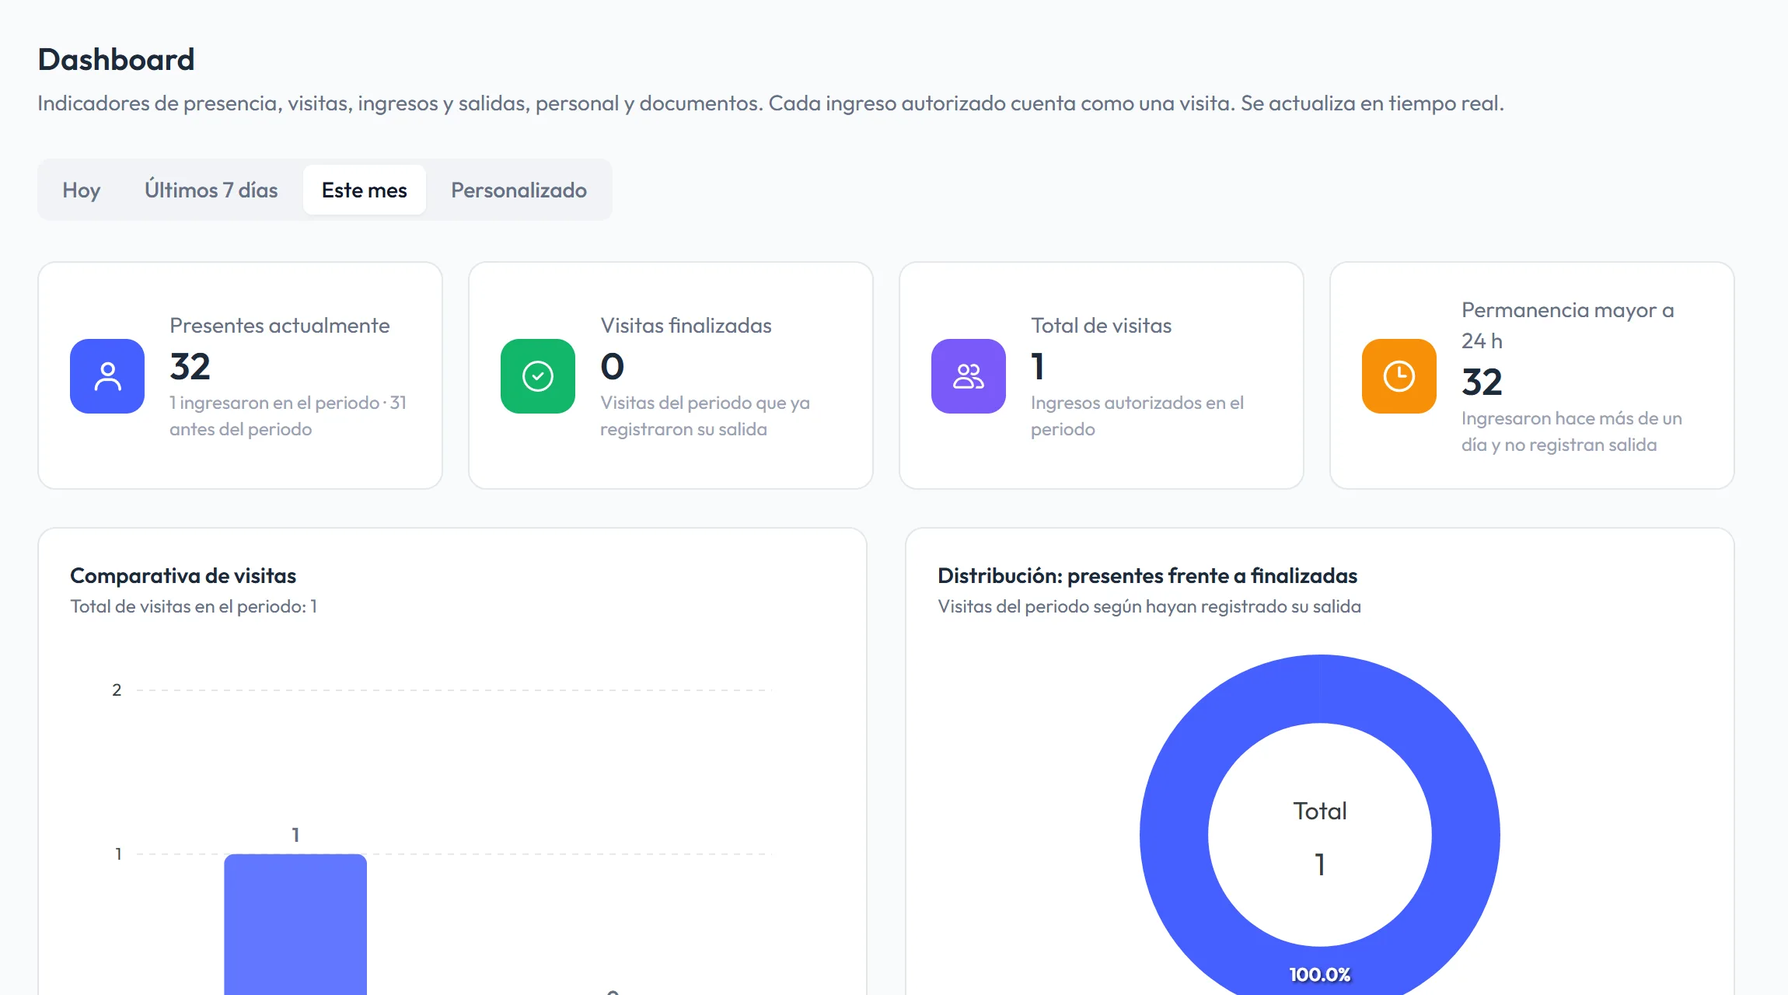
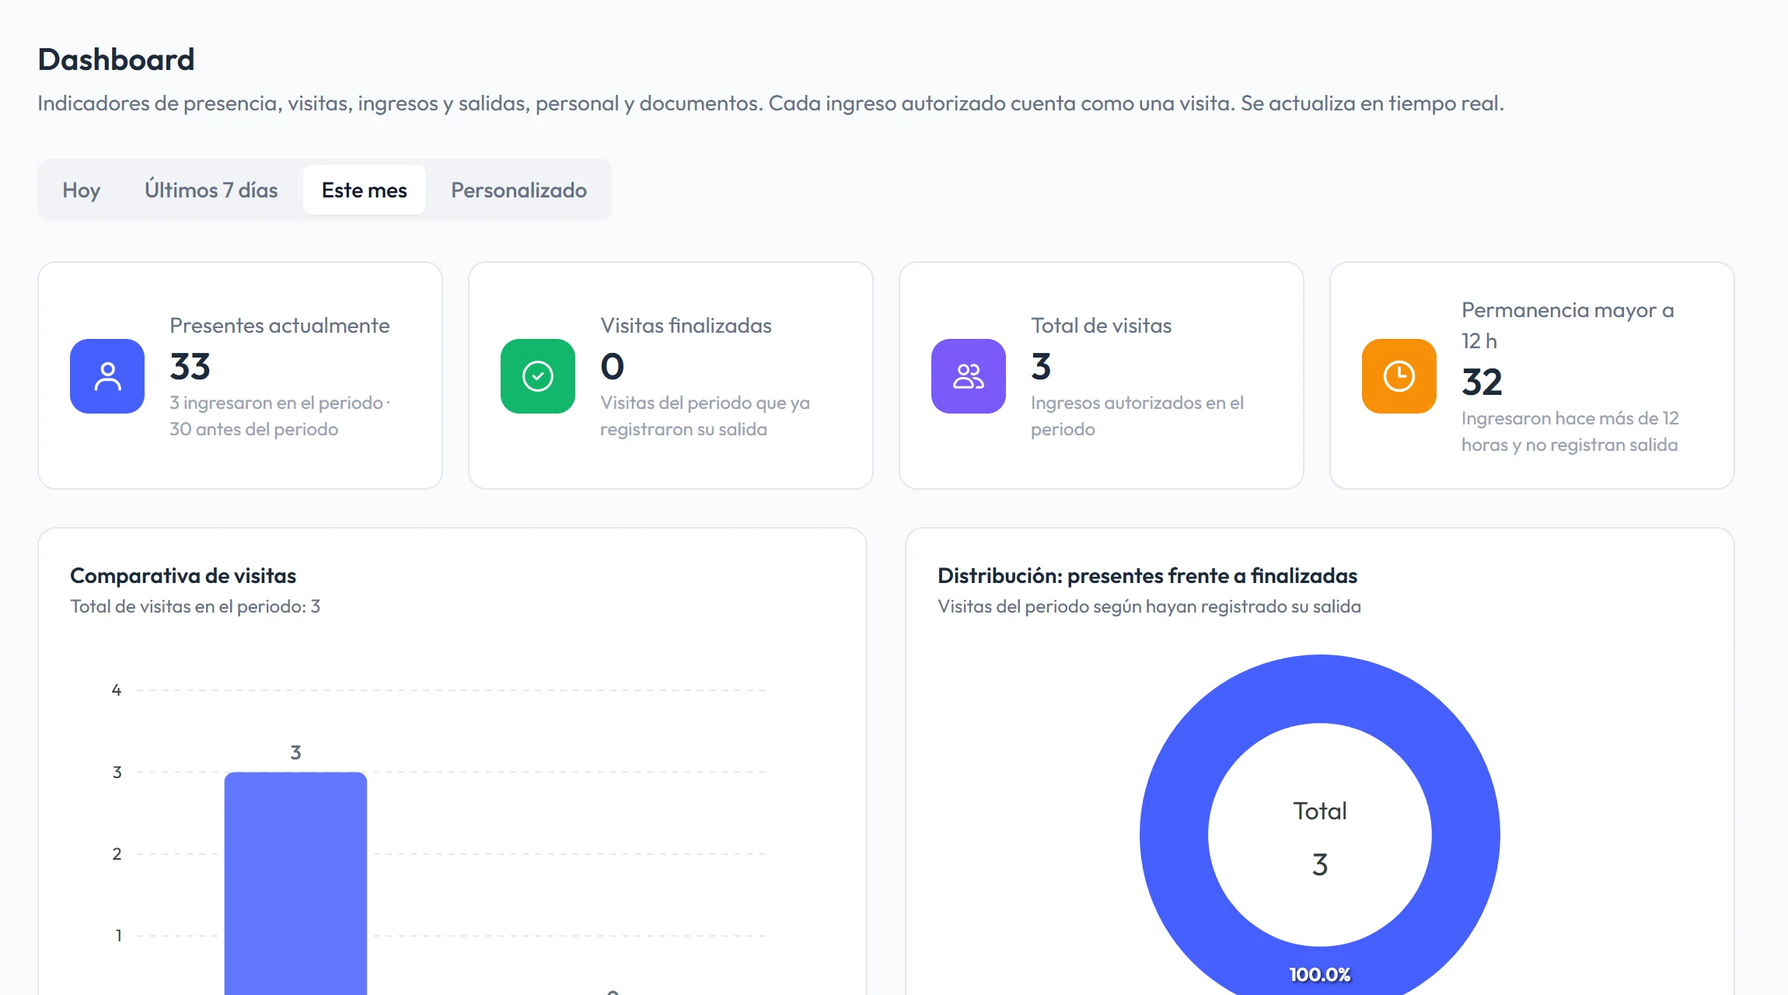
modificacion a 12 horas

diff --git a/mollendo-portal/src/app/(admin)/dashboard/page.tsx b/mollendo-portal/src/app/(admin)/dashboard/page.tsx
@@ -73,7 +73,7 @@ function tiempoDentro(desde: string, ahora: string): string {
 /**
  * Presentes actualmente = todas las personas dentro, sin importar cuándo
  * entraron. El gráfico solo cuenta las visitas del periodo; la diferencia son
- * quienes entraron antes del periodo (p. ej. la permanencia mayor a 24 h).
+ * quienes entraron antes del periodo (p. ej. la permanencia mayor a 12 h).
  */
 function detallePresentes(d: Dashboard | null): string {
   if (!d) return "Personas que ingresaron y aún no registran salida";
@@ -137,7 +137,7 @@ function DashboardContent() {
   }, [cargar]);
 
   // Se actualiza con los ingresos y salidas (tiempo real) y cada minuto, para
-  // que la permanencia mayor a 24 horas avance aunque no haya movimientos. Con
+  // que la permanencia mayor a 12 horas avance aunque no haya movimientos. Con
   // mucho movimiento (cambio de turno) se recarga como máximo cada 10 s: si se
   // recargara con cada persona, los gráficos se redibujarían sin parar.
   const cargarActual = useRef(cargar);
@@ -223,9 +223,10 @@ function DashboardContent() {
           fondoIcono="bg-[#7a5af8]"
         />
         <TarjetaIndicador
-          titulo="Permanencia mayor a 24 h"
-          valor={d?.presencia.masDe24h ?? null}
-          detalle="Ingresaron hace más de un día y no registran salida"
+          // Espacio que no se corta: "12 h" siempre en la misma línea.
+          titulo={"Permanencia mayor a 12 h"}
+          valor={d?.presencia.masDe12h ?? null}
+          detalle="Ingresaron hace más de 12 horas y no registran salida"
           icono={<TimeIcon />}
           fondoIcono="bg-warning-500"
         />
@@ -383,13 +384,13 @@ function DashboardContent() {
               </Bloque>
             </div>
 
-            {/* Permanencia mayor a 24 horas */}
+            {/* Permanencia mayor a 12 horas */}
             <Bloque
-              titulo="Permanencia mayor a 24 horas"
-              descripcion="Personas cuyo último movimiento es un ingreso de hace más de un día. Si salieron sin pasar por el molinete, seguirán figurando aquí hasta que registren su salida."
+              titulo="Permanencia mayor a 12 horas"
+              descripcion="Personas cuyo último movimiento es un ingreso de hace más de 12 horas. Si salieron sin pasar por el molinete, seguirán figurando aquí hasta que registren su salida."
             >
               {!permanencia || permanencia.total === 0 ? (
-                <SinDatos texto="Nadie lleva más de 24 horas dentro." />
+                <SinDatos texto="Nadie lleva más de 12 horas dentro." />
               ) : (
                 <div className="overflow-x-auto [&_td]:whitespace-nowrap [&_th]:whitespace-nowrap">
                   <AltoEstable

diff --git a/mollendo-api/src/reportes/reportes.service.ts b/mollendo-api/src/reportes/reportes.service.ts
@@ -5,7 +5,7 @@ import { PrismaService } from '../prisma/prisma.service.js';
 import { rangoDeDias } from '../common/paginacion.js';
 import { TABLA_LABEL } from '../auditoria/auditoria.service.js';
 import { DashboardService } from '../panel/dashboard.service.js';
-import { claveDia, diasDelRango } from '../panel/dashboard.util.js';
+import { claveDia, diasDelRango, HORAS_PERMANENCIA_LARGA, MS_PERMANENCIA_LARGA } from '../panel/dashboard.util.js';
 import {
   documentosActuales,
   esDocumentoVigente,
@@ -498,7 +498,7 @@ export class ReportesService {
       select: { id: true, nombres: true, apellidos: true, numeroDocumento: true, estado: true, empresa: { select: { razonSocial: true } } },
     });
     const porId = new Map(personas.map((p) => [p.id, p]));
-    const masDe24h = dentro.filter((d) => ahora.getTime() - d.fechaHora.getTime() > MS_POR_DIA).length;
+    const masDe12h = dentro.filter((d) => ahora.getTime() - d.fechaHora.getTime() > MS_PERMANENCIA_LARGA).length;
     return {
       titulo: 'Personal presente',
       archivo: `reporte-presentes-${claveDia(ahora)}`,
@@ -510,7 +510,7 @@ export class ReportesService {
         { titulo: 'Estado', ancho: 13 },
         { titulo: 'Ingreso', tipo: 'fechaHora', ancho: 16 },
         { titulo: 'Tiempo dentro', ancho: 14 },
-        { titulo: 'Más de 24 h', ancho: 10 },
+        { titulo: `Más de ${HORAS_PERMANENCIA_LARGA} h`, ancho: 10 },
       ],
       filas: dentro.map((d) => {
         const p = porId.get(d.personaId)!;
@@ -522,10 +522,10 @@ export class ReportesService {
           ESTADO_PERSONA[p.estado],
           d.fechaHora,
           textoDuracion(ms),
-          ms > MS_POR_DIA ? 'Sí' : 'No',
+          ms > MS_PERMANENCIA_LARGA ? 'Sí' : 'No',
         ];
       }),
-      resumen: [`Presentes: ${dentro.length}`, `Más de 24 horas: ${masDe24h}`],
+      resumen: [`Presentes: ${dentro.length}`, `Más de ${HORAS_PERMANENCIA_LARGA} horas: ${masDe12h}`],
     };
   }
 

diff --git a/mollendo-api/src/panel/dashboard.service.ts b/mollendo-api/src/panel/dashboard.service.ts
@@ -84,19 +84,19 @@ export class DashboardService {
 
   private async presencia(ahora: Date) {
     const resultado = await this.calcularPresenciaActual(ahora);
-    return { presentes: resultado.presentes, masDe24h: resultado.masDe24h.length };
+    return { presentes: resultado.presentes, masDe12h: resultado.masDe12h.length };
   }
 
   /**
-   * Personas con permanencia mayor a 24 horas, paginadas en el servidor: la de
+   * Personas con permanencia mayor a 12 horas, paginadas en el servidor: la de
    * mayor permanencia primero.
    */
   async permanencia(query: ListaPaginadaDto) {
     const { pagina, porPagina, skip, take } = paginacion(query, 10);
-    const { masDe24h } = await this.calcularPresenciaActual(new Date());
-    const pagina24h = masDe24h.slice(skip, skip + take);
+    const { masDe12h } = await this.calcularPresenciaActual(new Date());
+    const paginaLarga = masDe12h.slice(skip, skip + take);
     const personas = await this.prisma.persona.findMany({
-      where: { id: { in: pagina24h.map((p) => p.personaId) } },
+      where: { id: { in: paginaLarga.map((p) => p.personaId) } },
       select: {
         id: true,
         nombres: true,
@@ -106,7 +106,7 @@ export class DashboardService {
       },
     });
     const porId = new Map(personas.map((p) => [p.id, p]));
-    const datos = pagina24h.map((p) => {
+    const datos = paginaLarga.map((p) => {
       const persona = porId.get(p.personaId)!;
       return {
         personaId: p.personaId,
@@ -117,7 +117,7 @@ export class DashboardService {
         ingreso: p.fechaHora.toISOString(),
       };
     });
-    return { datos, total: masDe24h.length, pagina, porPagina } satisfies Paginado<(typeof datos)[number]>;
+    return { datos, total: masDe12h.length, pagina, porPagina } satisfies Paginado<(typeof datos)[number]>;
   }
 
   /** Visitas del periodo: cada ingreso autorizado de cualquier persona. */

diff --git a/mollendo-api/src/panel/dashboard.util.ts b/mollendo-api/src/panel/dashboard.util.ts
@@ -10,6 +10,13 @@ import { esDocumentoVigente } from '../eventos-acceso/validacion-acceso.engine.j
 
 const MS_POR_DIA = 24 * 60 * 60 * 1000;
 
+/**
+ * "Permanencia larga": presentes que ingresaron hace más de estas horas (Dashboard
+ * y reporte de personal presente). 12 h desde el 15/10/2026 (antes 24 h), a pedido del cliente.
+ */
+export const HORAS_PERMANENCIA_LARGA = 12;
+export const MS_PERMANENCIA_LARGA = HORAS_PERMANENCIA_LARGA * 60 * 60 * 1000;
+
 /** Día local AAAA-MM-DD de una fecha. */
 export function claveDia(fecha: Date): string {
   const a = fecha.getFullYear();
@@ -42,17 +49,17 @@ export interface UltimoMovimiento {
 
 /**
  * Presentes = personas cuyo último movimiento autorizado es un ingreso.
- * Permanencia mayor a 24 horas = presentes que ingresaron hace más de 24 h.
+ * Permanencia mayor a 12 horas = presentes que ingresaron hace más de 12 h (HORAS_PERMANENCIA_LARGA).
  */
 export function calcularPresencia(ultimos: UltimoMovimiento[], ahora: Date) {
   const dentro = ultimos
     .filter((u) => u.tipoMovimiento === 'ingreso')
     .sort((a, b) => a.fechaHora.getTime() - b.fechaHora.getTime());
-  const limite = ahora.getTime() - MS_POR_DIA;
-  const masDe24h = dentro
+  const limite = ahora.getTime() - MS_PERMANENCIA_LARGA;
+  const masDe12h = dentro
     .filter((u) => u.fechaHora.getTime() < limite)
     .sort((a, b) => a.fechaHora.getTime() - b.fechaHora.getTime());
-  return { presentes: dentro.length, dentro, masDe24h };
+  return { presentes: dentro.length, dentro, masDe12h };
 }
 
 // ---------------------------------------------------------------------------

diff --git a/mollendo-portal/src/app/(admin)/manual/secciones.tsx b/mollendo-portal/src/app/(admin)/manual/secciones.tsx
@@ -588,7 +588,7 @@ export const SECCIONES: SeccionManual[] = [
             "Elige el periodo: hoy, últimos 7 días, este mes o uno personalizado.",
             "Indicadores del periodo: presentes, visitas finalizadas y total de visitas.",
             "Gráficos de visitas, ingresos y salidas.",
-            "Quienes llevan más de un día dentro sin registrar salida.",
+            "Quienes llevan más de 12 horas dentro sin registrar salida.",
           ]}
         />
 
@@ -616,10 +616,10 @@ export const SECCIONES: SeccionManual[] = [
             },
             {
               Icono: IconoReloj,
-              boton: "Permanencia mayor a 24 h",
+              boton: "Permanencia mayor a 12 h",
               tono: "aviso",
               comillas: false,
-              texto: "Personas que ingresaron hace más de un día y no registran salida. Al final de la página está la lista con su tiempo dentro.",
+              texto: "Personas que ingresaron hace más de 12 horas y no registran salida. Al final de la página está la lista con su tiempo dentro.",
             },
           ]}
         />

diff --git a/mollendo-portal/src/lib/api/types.ts b/mollendo-portal/src/lib/api/types.ts
@@ -144,7 +144,8 @@ export interface ResumenPanel {
 export interface Dashboard {
   periodo: { desde: string; hasta: string };
   generadoEn: string;
-  presencia: { presentes: number; masDe24h: number };
+  /** masDe12h: presentes que ingresaron hace más de 12 horas (permanencia larga). */
+  presencia: { presentes: number; masDe12h: number };
   visitas: { total: number; finalizadas: number; presentes: number };
   movimientos: {
     totales: { ingresosAutorizados: number; ingresosDenegados: number; salidasAutorizadas: number; salidasDenegadas: number };
@@ -164,7 +165,7 @@ export interface Dashboard {
   documentos: { vigentes: number; porVencer: number; vencidos: number; diasAviso: number };
 }
 
-/** Persona con permanencia mayor a 24 horas (GET /panel/dashboard/permanencia, paginado). */
+/** Persona con permanencia mayor a 12 horas (GET /panel/dashboard/permanencia, paginado). */
 export interface PersonaPermanencia {
   personaId: number;
   nombres: string;

diff --git a/mollendo-api/src/panel/dashboard.util.spec.ts b/mollendo-api/src/panel/dashboard.util.spec.ts
@@ -32,8 +32,20 @@ describe('calcularPresencia', () => {
       ahora,
     );
     expect(r.presentes).toBe(3);
-    // Más de 24 h dentro: la persona 2 (desde el 29 a las 9) y la 4; la más antigua primero.
-    expect(r.masDe24h.map((p) => p.personaId)).toEqual([4, 2]);
+    // Más de 12 h dentro: la persona 2 (desde el 29 a las 9) y la 4; la más antigua primero.
+    expect(r.masDe12h.map((p) => p.personaId)).toEqual([4, 2]);
+  });
+
+  it('permanencia larga desde las 12 horas (antes 24)', () => {
+    const ahora = hora(30, 12);
+    const r = calcularPresencia(
+      [
+        { personaId: 1, tipoMovimiento: 'ingreso', fechaHora: hora(29, 23) }, // 13 h: sí
+        { personaId: 2, tipoMovimiento: 'ingreso', fechaHora: hora(30, 1) }, // 11 h: no
+      ],
+      ahora,
+    );
+    expect(r.masDe12h.map((p) => p.personaId)).toEqual([1]);
   });
 });
 

diff --git a/mollendo-api/src/panel/panel.controller.ts b/mollendo-api/src/panel/panel.controller.ts
@@ -53,7 +53,7 @@ export class PanelController {
     return this.dashboardService.obtener(query);
   }
 
-  // Lista paginada de la permanencia mayor a 24 horas del dashboard.
+  // Lista paginada de la permanencia mayor a 12 horas del dashboard.
   @Get('panel/dashboard/permanencia')
   @Roles('administrador')
   permanencia(@Query() query: ListaPaginadaDto) {

diff --git a/PROGRESO.md b/PROGRESO.md
@@ -31,7 +31,7 @@ Resumen del estado actual. El detalle de cada cambio está en la bitácora (abaj
 - [x] `reportes`: seis reportes en Excel y PDF; documentos también en ZIP con archivos (y fotos opcionales).
 - [x] `auditoria`: registro de todos los cambios.
 - [x] Respuestas comprimidas (gzip, `compression`): la lista del personal en AWS pasó de 431 KB a 20 KB (1,47 s → 0,69 s, medido el 13/10/2026).
-- [x] Pruebas: 110 (Vitest), incluido el flujo de ingreso y salida (`eventos-acceso.flujo.spec.ts`).
+- [x] Pruebas: 111 (Vitest), incluido el flujo de ingreso y salida (`eventos-acceso.flujo.spec.ts`).
 
 ### 2. Portal (`mollendo-portal`)
 
@@ -587,3 +587,4 @@ Resumen del estado actual. El detalle de cada cambio está en la bitácora (abaj
 - **2026-10-15** — **Verificación manual programada** (contingencia por falla del equipo facial, `Contingencias_Equipos_Garita.md` sección 4, diseño aprobado en la maqueta). **Base de datos:** migración `20261015120000_verificacion_manual`: tabla `periodo_verificacion_manual` (motivo, quién y cuándo la activó y la terminó), `ingreso_pendiente.manual`, y en `evento_acceso` `verificacion_manual`, `verificado_por_id` y `denegado_rostro_no_coincide`. **API:** `VerificacionManualService` (activar con motivo, terminar, estado; auditoría "Verificación manual"; evento en vivo `verificacion-manual`); rutas `GET/POST/DELETE /eventos-acceso/verificacion-manual` y `POST /eventos-acceso/en-espera/:id/decision` (`apto`, `alcohol`, `no-es-la-persona`), para administrador y vigilancia. Con el modo activo, un DNI en regla queda esperando al **vigilante** (2 min, de a una persona, en orden) y **no se envía nada al G4** (ni habilitar ni quitar permiso: al volver nadie queda habilitado); lo que mande el G4 no cierra una espera manual; "Apto" autoriza y abre el molinete, "Alcohol" y "No es la persona" deniegan (y suena el aviso); una decisión no se aplica dos veces. Reportes de ingresos y salidas: columna "Verificación" (`Manual (correo)`) y motivo "Rostro no coincide"; Dashboard: categoría "Rostro no coincide". **Portal:** botón "Activar verificación manual" en la franja roja junto al terminal facial (se oculta al instante al activarla), ventana del motivo, franja azul fija con "Volver a modo normal", ventana de decisión con foto, datos, tiempo y los 3 botones, aviso verde "El equipo facial volvió a conectarse. ¿Volver a modo normal?" con "Seguir en manual", marca "Manual · correo" y "Rostro no coincide" en el historial, filas en espera "Verificación manual: el vigilante decide"; manual del usuario (Panel de vigilancia). Pruebas: API 110/110 (7 nuevas en el flujo de ingreso), portal 102/102 (9 nuevas); prueba completa con la API y el portal locales (activar desde el portal, dos DNI por el lector, "Apto" y "No es la persona", historial, Excel con la columna nueva, volver a modo normal, auditoría; sin órdenes al G4). **Subido a AWS** el 15/10 a las 20:20 (respaldo previo `antes-de-actualizar-20261016-0118.sql.gz`; migración `20261015120000_verificacion_manual` aplicada; mismos datos, 1059 personas). La mini PC no necesita actualizarse. Falta: probarlo en la garita.
 - **2026-10-15** — **Manual del usuario: "Si falla el terminal facial: verificación manual" reescrita** con el formato del resto del manual: para qué sirve y qué no cambia; nota de quién la activa, sin tiempo máximo y registro; "Activarla" con captura numerada (`verificacion-activar`: aviso del terminal facial en la franja roja y su botón) y la franja azul; "Cada ingreso, paso a paso" (5 pasos con íconos: DNI, ventana, rostro, alcohol, botón) y captura numerada de la ventana (`verificacion-ventana`: tiempo, documentos vigentes, qué hacer y los 3 botones); tarjetas para varias personas a la vez, 2 minutos sin decidir, cómo queda registrado y otro vigilante decidió antes; "Volver a modo normal" y "Seguir en manual", con la nota de por qué no vuelve sola. `scripts/capturas-manual.mjs`: dos capturas nuevas (activan la verificación manual, pasan un DNI DEMO con la clave de equipos y la terminan) y la opción `CAPTURAS=clave,…` para sacar solo algunas sin rehacer las demás (README del portal). Revisado con capturas de la sección. **Subido a AWS** el 15/10 a las 20:37 (respaldo previo `antes-de-actualizar-20261016-0137.sql.gz`; solo el portal).
 - **2026-10-15** — Panel de vigilancia, nombres de los contadores (pedido del cliente): **"Denegaciones hoy" → "Accesos restringidos hoy"** y **"Alcohol no conforme hoy" → "Prueba de alcohol test positivo hoy"** (los valores y las descripciones no cambian). Actualizados el texto de la captura del Panel en el manual (y la captura `vigilancia.webp`, sacada de nuevo), el script de capturas y el documento funcional (contadores del Panel). Revisado en computadora y celular (en el celular el título ocupa 3 líneas, sin cortarse). Pruebas del portal 102/102. **Subido a AWS** el 15/10 a las 20:37, junto con el manual.
+- **2026-10-15** — **Permanencia larga: de 24 a 12 horas** (pedido del cliente). Una sola constante `HORAS_PERMANENCIA_LARGA = 12` en `panel/dashboard.util.ts`, que usan el Dashboard (indicador "Permanencia mayor a 12 h" y su lista paginada) y el reporte "Personal presente" (columna "Más de 12 h" y resumen); el campo de la respuesta pasó de `presencia.masDe24h` a `presencia.masDe12h`. Textos del Dashboard ("Ingresaron hace más de 12 horas y no registran salida", lista y mensaje vacío), manual (sección Dashboard y su captura `dashboard.webp`, sacada de nuevo) y documento funcional (7 menciones). En el título, "12 h" con espacio que no se corta (sin él, la "h" quedaba sola en otra línea). Pruebas: API 111/111 (una nueva: 13 h cuenta, 11 h no), portal 102/102; comprobado con la API local (32 de 33 presentes con más de 12 h). **Subido a AWS** el 15/10 a las 22:30 (respaldo previo `antes-de-actualizar-20261016-0327.sql.gz`; sin migraciones).

diff --git a/docs/cliente/Documento_Funcional_Control_Accesos_TMAM.md b/docs/cliente/Documento_Funcional_Control_Accesos_TMAM.md
@@ -239,18 +239,18 @@ Pantalla de indicadores y gráficos, calculados a partir de los ingresos y salid
 
 | Indicador | Cálculo |
 |---|---|
-| Presentes actualmente | Personas cuyo último movimiento autorizado es un ingreso, sin importar cuándo entraron. Se indica cuántas ingresaron en el periodo y cuántas antes (por ejemplo, las de permanencia mayor a 24 horas). |
+| Presentes actualmente | Personas cuyo último movimiento autorizado es un ingreso, sin importar cuándo entraron. Se indica cuántas ingresaron en el periodo y cuántas antes (por ejemplo, las de permanencia mayor a 12 horas). |
 | Visitas finalizadas | Visitas del periodo que ya registraron su salida. |
 | Total de visitas | Ingresos autorizados en el periodo. |
-| Permanencia mayor a 24 horas | Personas que ingresaron hace más de 24 horas y no registran salida. |
+| Permanencia mayor a 12 horas | Personas que ingresaron hace más de 12 horas y no registran salida. |
 
 - **Periodo:** hoy, últimos 7 días, este mes o un rango personalizado (hasta 366 días).
 - **Gráficos:** comparativa de visitas presentes (aún sin salida) y finalizadas; distribución de presentes frente a finalizadas; ingresos autorizados, denegados y salidas por día; motivos de denegación; documentos del personal activo (vigentes, por vencer en los próximos 30 días y vencidos) y personal activo por empresa.
 - **Personal registrado:** total de personas, barra con la proporción de activos y dados de baja (con sus porcentajes) y cuántas personas del personal activo están en el terminal en ese momento.
-- **Lista de permanencia mayor a 24 horas:** persona, documento, empresa, fecha de ingreso y tiempo dentro; de mayor a menor permanencia, paginada de 10 registros por página.
+- **Lista de permanencia mayor a 12 horas:** persona, documento, empresa, fecha de ingreso y tiempo dentro; de mayor a menor permanencia, paginada de 10 registros por página.
 
 - **Acceso:** solo el Administrador, desde la opción "Dashboard" del menú.
-- **Interfaces:** `GET /panel/dashboard` (indicadores y gráficos del periodo) y `GET /panel/dashboard/permanencia` (lista paginada de la permanencia mayor a 24 horas).
+- **Interfaces:** `GET /panel/dashboard` (indicadores y gráficos del periodo) y `GET /panel/dashboard/permanencia` (lista paginada de la permanencia mayor a 12 horas).
 
 Los indicadores de presencia dependen de que cada persona registre su salida en el molinete. Si una persona sale sin registrarla (por ejemplo, durante una emergencia con los brazos del molinete liberados), seguirá figurando como presente hasta que registre su salida.
 
@@ -264,7 +264,7 @@ Descarga de la información del sistema en **Excel** o **PDF**. Se elige el repo
 | Documentos por persona | Última versión de cada documento: persona, empresa, documento, versión, fecha de carga, vencimiento, días para vencer y estado (vigente, por vencer en 30 días o vencido). Primero los más urgentes. | Empresa; estado del documento. |
 | Ingresos y salidas | Historial en orden cronológico: fecha y hora, movimiento, resultado, documento, persona, empresa, motivo de denegación y molinete. | Periodo; ingresos o salidas; autorizados o denegados. |
 | Visitas del periodo | Cada ingreso autorizado con su salida, duración y estado (finalizada o presente). | Periodo. |
-| Personal presente | Personas dentro del terminal en el momento de la descarga, con hora de ingreso, tiempo dentro y si superan las 24 horas. | — |
+| Personal presente | Personas dentro del terminal en el momento de la descarga, con hora de ingreso, tiempo dentro y si superan las 12 horas. | — |
 | Auditoría | Fecha y hora, usuario, acción (crear, modificar o eliminar), dato y número de registro. | Periodo. |
 
 - **Periodo:** hoy, últimos 7 días, este mes o un rango personalizado (hasta 366 días).
@@ -376,7 +376,7 @@ Todas las rutas empiezan con `/api/v1`. El portal se autentica con un token de s
 | `GET /eventos-acceso` | Historial paginado, con búsqueda y fechas | Administrador y Vigilancia |
 | `GET /panel/resumen` | Contadores del Panel | Administrador y Vigilancia |
 | `GET /panel/dashboard` | Indicadores y gráficos del Dashboard, por periodo | Administrador |
-| `GET /panel/dashboard/permanencia` | Personas con permanencia mayor a 24 horas, paginado | Administrador |
+| `GET /panel/dashboard/permanencia` | Personas con permanencia mayor a 12 horas, paginado | Administrador |
 | `GET /reportes/:tipo` | Reporte en Excel o PDF (`personal`, `documentos`, `movimientos`, `visitas`, `presentes`, `auditoria`); documentos también en ZIP con sus archivos | Administrador |
 | `GET /panel/estado-sistema` · `/health` | Estado del sistema y de los respaldos | Administrador · público |
 | `GET /panel/avisos` | Equipos y servicios caídos, para el aviso de la parte superior del portal | Administrador y Vigilancia |
